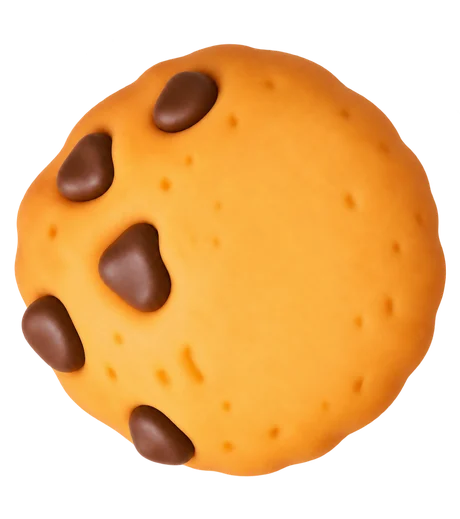
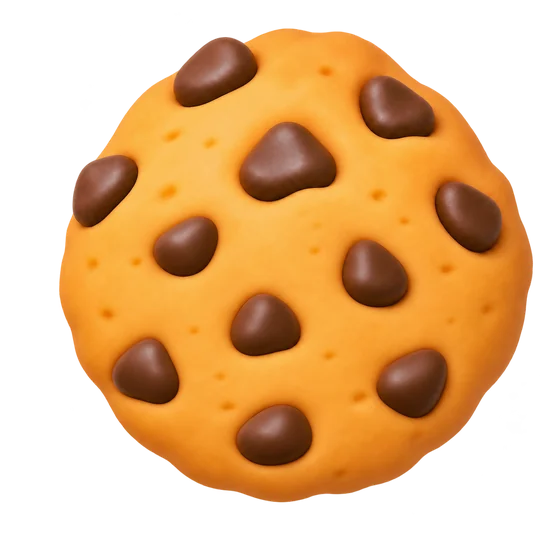
feat: 배경 쿠키를 초코가 고루 박힌 그림(coo2)으로 바꾸고 돌리지 않음 · 진행 화면 '확인 노트' 앞 그림을 쿠키 이모지로

diff --git a/app/components/Progress.tsx b/app/components/Progress.tsx
@@ -181,9 +181,9 @@ export function Progress({ question, depth, titleIcon = brandMuffin, events, err
         <Image key={imageIndex} className={styles.mascot} src={stageImages[imageIndex]} width={200} height={200} sizes="(max-width: 720px) 160px, 200px" alt="" aria-hidden="true" />
         <FinanceFloaters variant="progress" />
       </div>
-      {/* 11/25 사용자: '머핀 이야기' 대신 '확인 노트' */}
+      {/* 11/25 사용자: '머핀 이야기' 대신 '확인 노트'. 11/26: 앞 그림은 쿠키 이모지 */}
       <aside className={styles.tip} aria-label={storyTitle} data-section="story">
-        <div className={styles.storyHeading}><span className={styles.storyIcon} aria-hidden="true"><Image src="/icon.svg" alt="" width={20} height={20} /></span><h2>{storyTitle}</h2></div>
+        <div className={styles.storyHeading}><span className={styles.storyIcon} aria-hidden="true">🍪</span><h2>{storyTitle}</h2></div>
         <p className={styles.story} aria-live="polite">{story}</p>
         {(state.plan || state.steps.length > 0 || verification) && <div className={styles.storyData}>
 

diff --git a/app/components/Progress.test.tsx b/app/components/Progress.test.tsx
@@ -121,6 +121,9 @@ describe("진행 화면 움직임 · 칸 이름 (11/25 사용자)", () => {
     expect(running.text()).not.toContain("머핀 이야기");
     const stopped = render([{ type: "stage", stage: "plan", status: "start" }], "조사 중 오류가 생겼어요");
     expect(stopped("[data-section=story] h2").text()).toBe("확인 노트");
+    // 11/26 사용자: 제목 앞은 쿠키 이모지 (전에는 머핀 로고 그림)
+    expect(running("[data-section=story] h2").prev().text()).toBe("🍪");
+    expect(running("[data-section=story] h2").prev().find("img")).toHaveLength(0);
   });
 
   it("그림 둘레에 떠 있는 금융 그림을 두고, 진행 막대의 빛은 진행 중일 때만 흐른다", () => {

diff --git a/app/components/Progress.module.css b/app/components/Progress.module.css
@@ -68,7 +68,7 @@
 .titleIcon { flex:0 0 36px; width:36px; height:42px; display:grid; place-items:center; font-size:30px; line-height:1; }
 .titleIcon img,.titleIcon svg { max-width:100%; max-height:100%; object-fit:contain; }
 /* '머핀 이야기' 옆 로고 (11/23 🧁 이모지 대신) */
-.storyIcon { display:inline-grid; place-items:center; width:20px; height:20px; flex:none; }
+.storyIcon { display:inline-grid; place-items:center; width:20px; height:20px; flex:none; font-size:18px; line-height:1; }
 .storyIcon img { width:100%; height:100%; object-fit:contain; }
 @media(max-width:480px) { .titleRow { gap:10px; } .titleIcon { flex-basis:30px; width:30px; height:36px; font-size:26px; } }
 

diff --git a/app/components/CookieDecor.tsx b/app/components/CookieDecor.tsx
@@ -26,7 +26,7 @@ export function CookieDecor() {
   }, []);
   return (
     <div ref={ref} className={styles.cookies} aria-hidden="true">
-      <Image src={cookie} alt="" width={460} height={519} unoptimized className={styles.cookie} />
+      <Image src={cookie} alt="" width={560} height={537} unoptimized className={styles.cookie} />
     </div>
   );
 }
